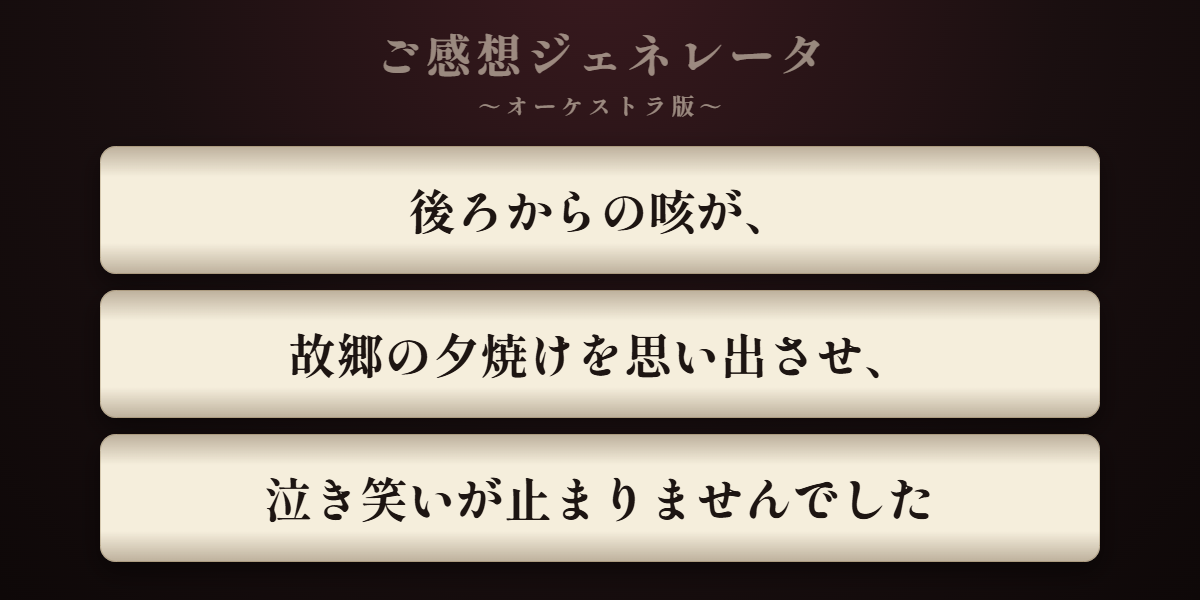
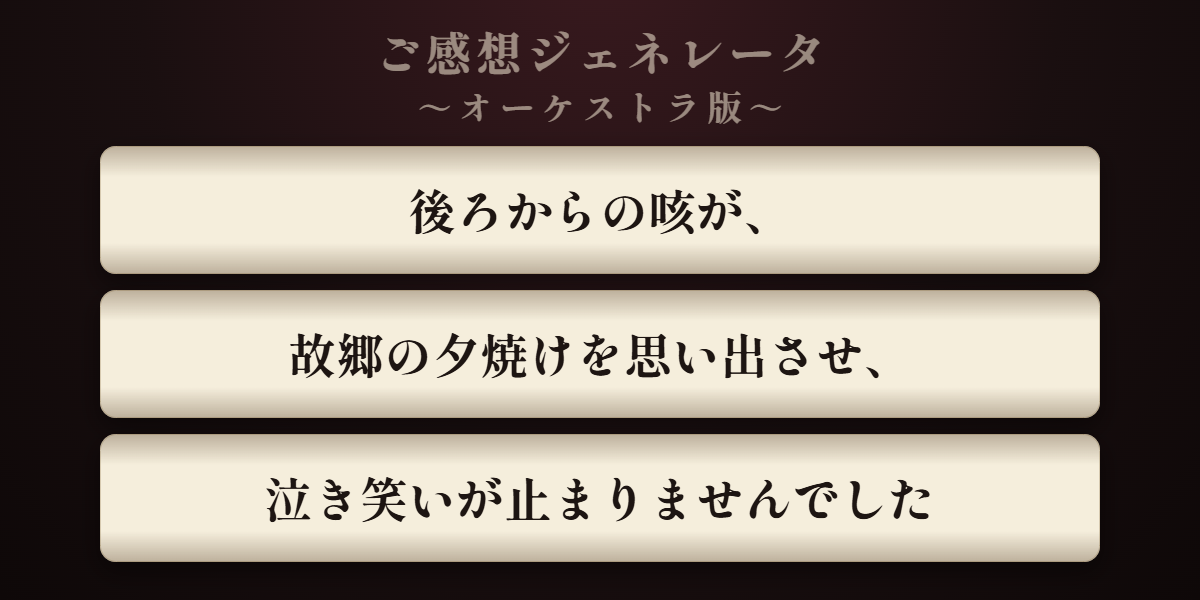
Xカード用の画像の「～オーケストラ版～」を、画面と同じ比率（0.75倍）にする

Changed region(s): [[0.3083, 0.06, 0.6783, 0.21]]

diff --git a/index.html b/index.html
@@ -13,14 +13,14 @@
     <meta property="og:title" content="ご感想ジェネレータ　～オーケストラ版～">
     <meta property="og:description" content="演奏会の感想を作成します。感動しているのか、そうでないのかは、分かりません。">
     <meta property="og:url" content="https://gsansan3.github.io/gokanso-generator-orchestra/">
-    <meta property="og:image" content="https://gsansan3.github.io/gokanso-generator-orchestra/ogp.png">
+    <meta property="og:image" content="https://gsansan3.github.io/gokanso-generator-orchestra/ogp.png?v=2">
     <meta property="og:image:width" content="1200">
     <meta property="og:image:height" content="600">
     <meta property="og:locale" content="ja_JP">
     <meta name="twitter:card" content="summary_large_image">
     <meta name="twitter:title" content="ご感想ジェネレータ　～オーケストラ版～">
     <meta name="twitter:description" content="演奏会の感想を作成します。感動しているのか、そうでないのかは、分かりません。">
-    <meta name="twitter:image" content="https://gsansan3.github.io/gokanso-generator-orchestra/ogp.png">
+    <meta name="twitter:image" content="https://gsansan3.github.io/gokanso-generator-orchestra/ogp.png?v=2">
     <meta name="twitter:image:alt" content="「後ろからの咳が、故郷の夕焼けを思い出させ、泣き笑いが止まりませんでした」と、3つのリールに感想が並んでいる画面">
     <link rel="preconnect" href="https://fonts.googleapis.com">
     <link rel="preconnect" href="https://fonts.gstatic.com" crossorigin>

diff --git a/tools/make-ogp.html b/tools/make-ogp.html
@@ -85,9 +85,10 @@ const drawSpaced = (ctx, text, centerX, y, spacing) => {
     ctx.globalAlpha = 0.55;
     ctx.fillStyle = C.text;
     ctx.font = `800 46px ${FONT}`;
-    drawSpaced(ctx, CARD.title, W / 2, 56, 4.6);
-    ctx.font = `700 23px ${FONT}`;
-    drawSpaced(ctx, CARD.subtitle, W / 2, 106, 4.6);
+    drawSpaced(ctx, CARD.title, W / 2, 54, 4.6);
+    // 副題は、画面と同じく、見出しの0.75倍の大きさ（字間は、副題の大きさの0.2倍）
+    ctx.font = `700 34.5px ${FONT}`;
+    drawSpaced(ctx, CARD.subtitle, W / 2, 108, 6.9);
     ctx.restore();
 
     // リール3本
